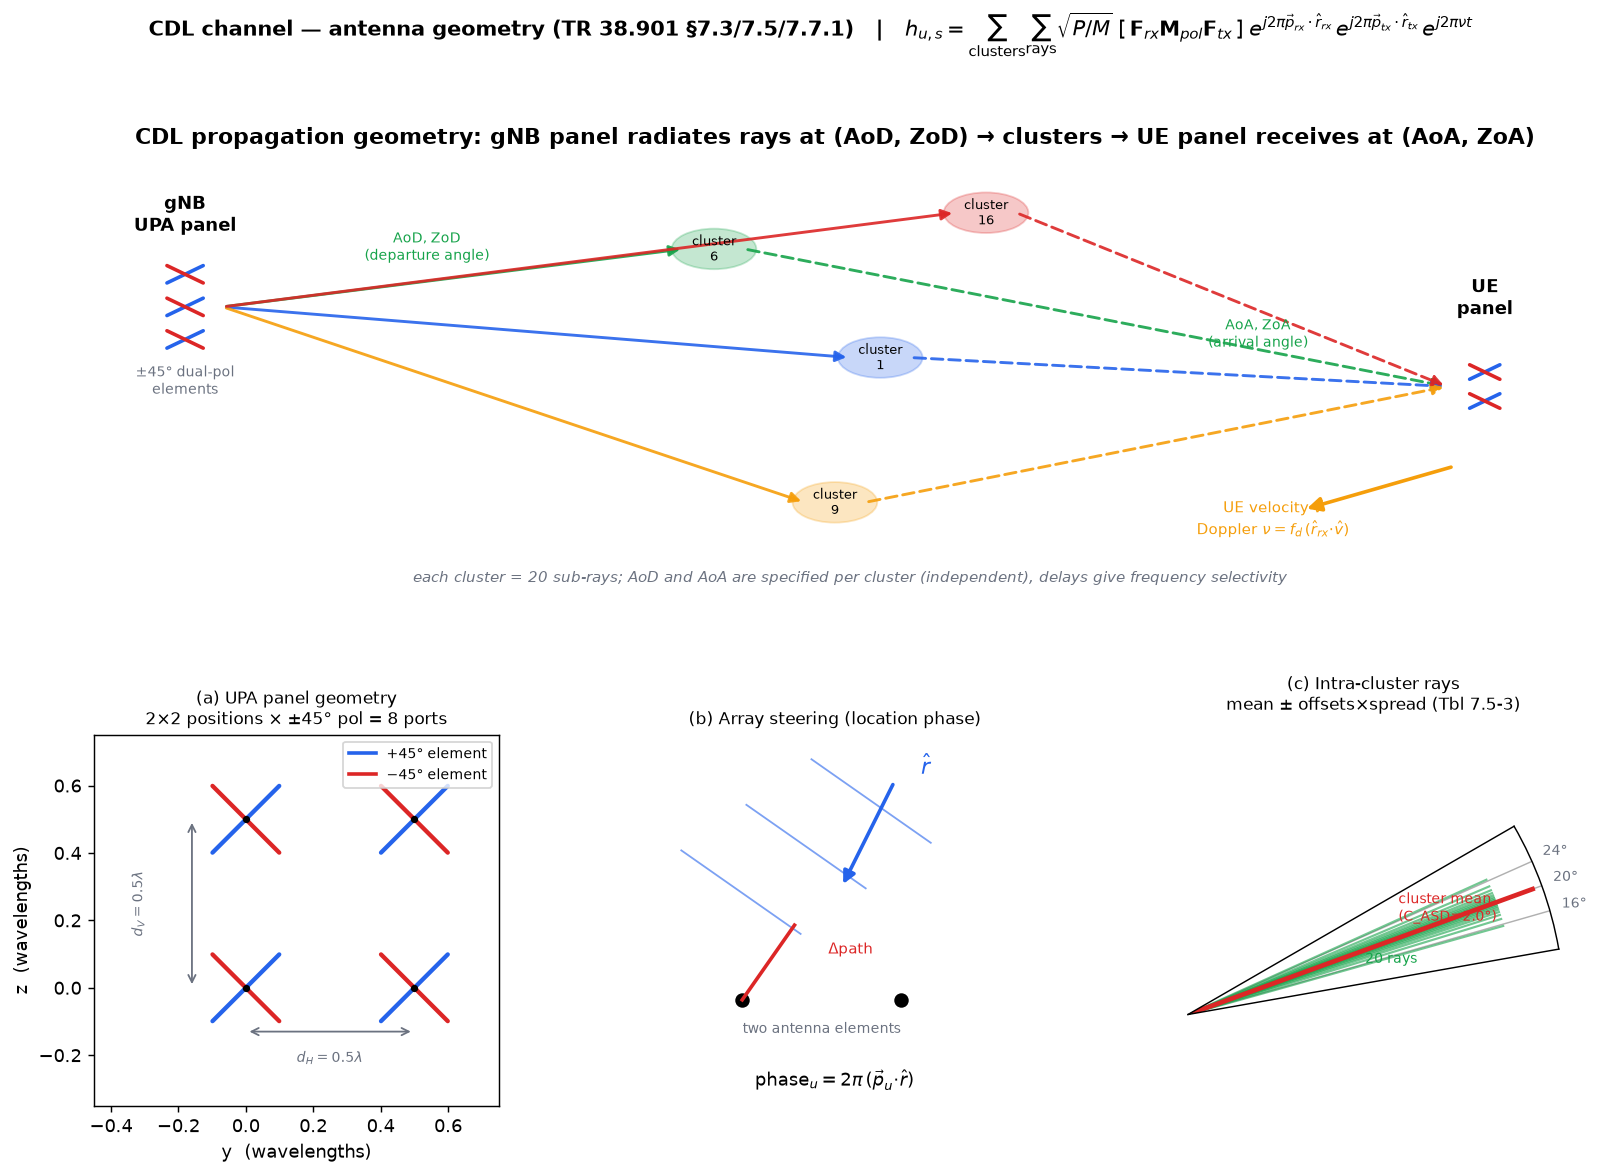
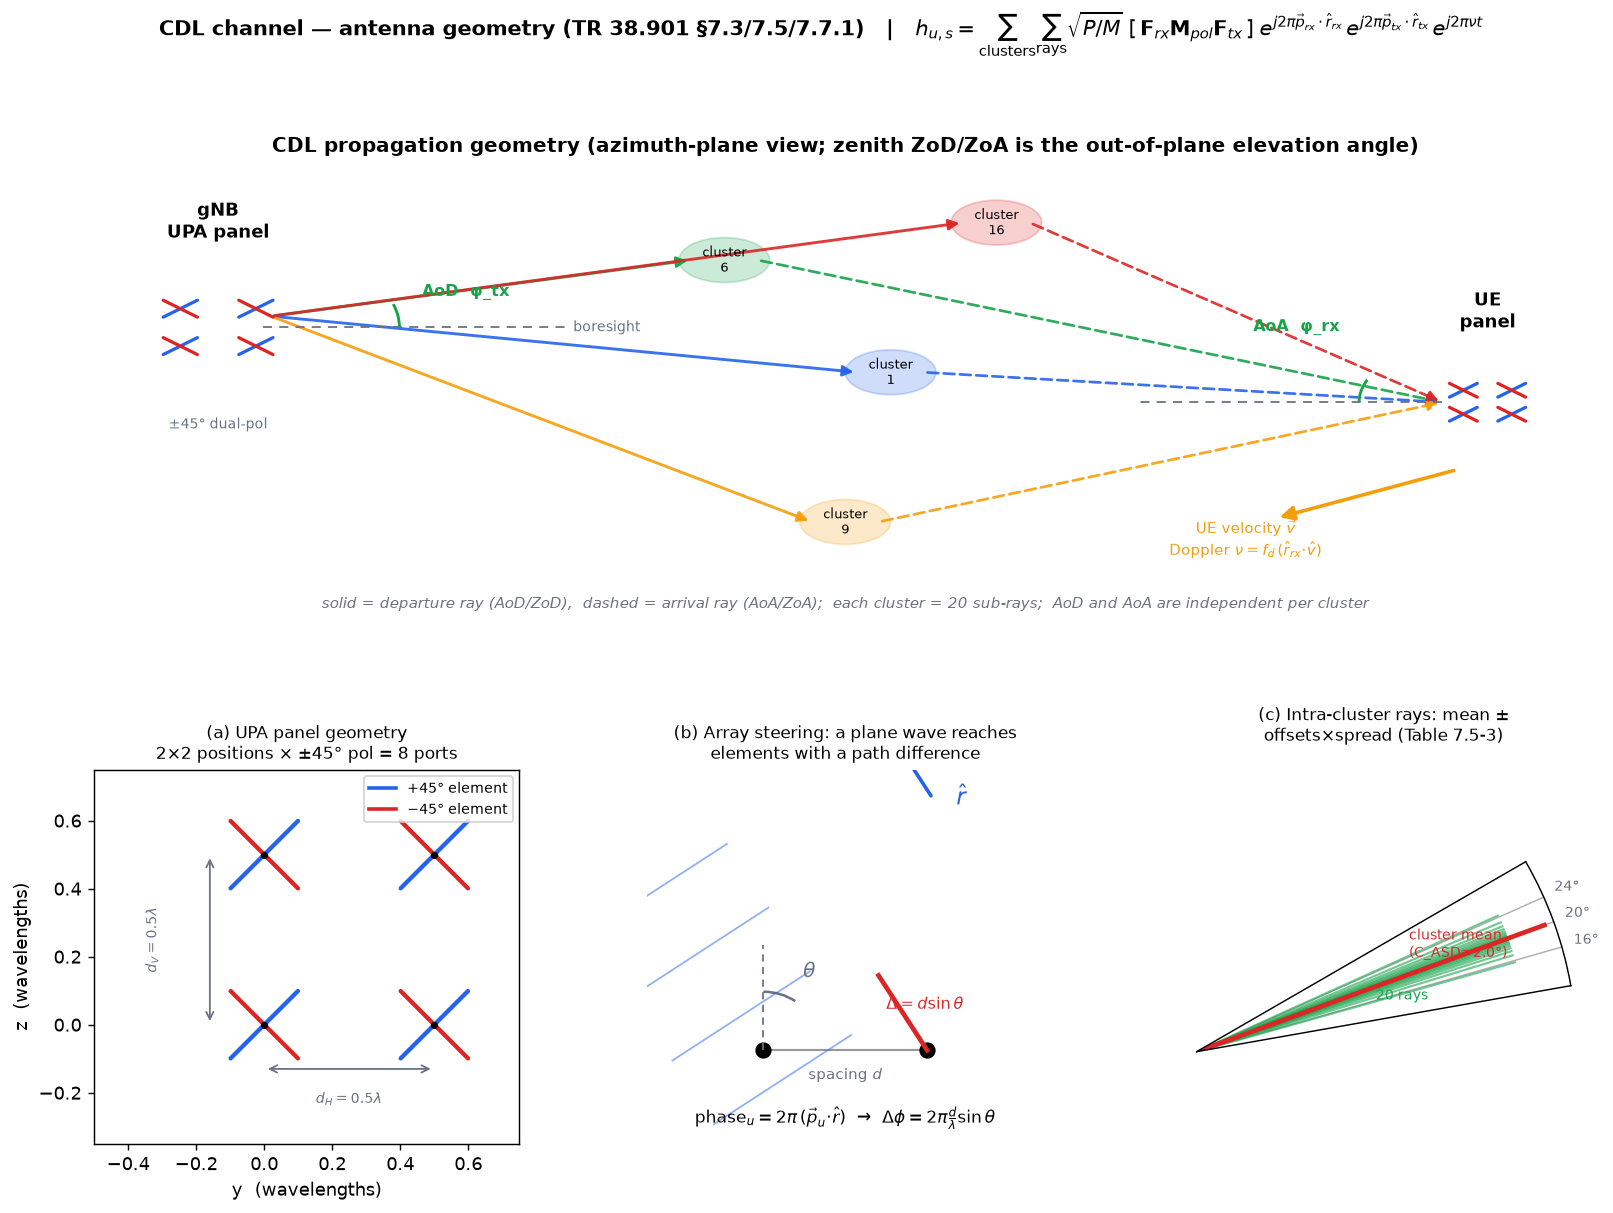
Refine CDL antenna-geometry figure
gNB drawn as a 2x2 dual-pol panel; boresight references + AoD/AoA angle arcs;
panel (b) redrawn as a clear phased-array steering diagram (theta, d*sin(theta),
phase formula); azimuth-plane note; fix sys.path import.

Claude-Session: https://claude.ai/code/session_01QWMA1G15JsNym7MEDMSeZY

diff --git a/examples/plot_cdl_geometry.py b/examples/plot_cdl_geometry.py
@@ -1,152 +1,161 @@
 """Illustrative figure explaining the CDL model's antenna geometry."""
+import os
+import sys
 import numpy as np
 import matplotlib
 matplotlib.use("Agg")
 import matplotlib.pyplot as plt
-from matplotlib.patches import FancyArrowPatch, Circle, Rectangle
+from matplotlib.patches import FancyArrowPatch, Circle, Arc
 from matplotlib.lines import Line2D
 
+sys.path.insert(0, os.path.dirname(os.path.dirname(os.path.abspath(__file__))))
 from nrdlsim.channel_models import build_panel, _CDL, _RAY_OFFSETS
 
 plt.rcParams.update({"font.size": 10})
-fig = plt.figure(figsize=(15, 9.5))
-gs = fig.add_gridspec(2, 3, height_ratios=[1.25, 1.0], hspace=0.28, wspace=0.24)
+fig = plt.figure(figsize=(15, 9.8))
+gs = fig.add_gridspec(2, 3, height_ratios=[1.28, 1.0], hspace=0.30, wspace=0.24)
 
 BLUE, GREEN, RED, ORANGE, GRAY = "#2563eb", "#16a34a", "#dc2626", "#f59e0b", "#6b7280"
+
+
+def mini_panel(ax, cx, cy, s=0.16, dp=0.42, label_bore=None):
+    """Draw a compact 2x2 dual-pol (±45°) panel centred at (cx, cy)."""
+    for gx in (-0.5, 0.5):
+        for gy in (-0.5, 0.5):
+            px, py = cx + gx*dp, cy + gy*dp
+            for ang, col in [(45, BLUE), (-45, RED)]:
+                dx, dy = s*np.cos(np.deg2rad(ang)), s*np.sin(np.deg2rad(ang))
+                ax.plot([px-dx, px+dx], [py-dy, py+dy], color=col, lw=1.8,
+                        solid_capstyle="round")
+
 
 # ======================================================================
 # TOP: end-to-end ray schematic  gNB UPA -> clusters -> UE
 # ======================================================================
 ax = fig.add_subplot(gs[0, :])
 ax.set_xlim(0, 10); ax.set_ylim(-3.2, 3.2); ax.axis("off")
-ax.set_title("CDL propagation geometry: gNB panel radiates rays at (AoD, ZoD) → "
-             "clusters → UE panel receives at (AoA, ZoA)", fontweight="bold")
+ax.set_title("CDL propagation geometry (azimuth-plane view; zenith ZoD/ZoA is the "
+             "out-of-plane elevation angle)", fontweight="bold", fontsize=11)
 
-# gNB UPA panel (left) — draw a small vertical stack of dual-pol elements
-gnb_x = 0.7
-for zz in (-0.45, 0.0, 0.45):
-    for pol, col in [(+1, BLUE), (-1, RED)]:
-        ax.plot([gnb_x-0.12*pol, gnb_x+0.12*pol], [1.1+zz-0.12, 1.1+zz+0.12],
-                color=col, lw=2, solid_capstyle="round")
-ax.text(gnb_x, 2.15, "gNB\nUPA panel", ha="center", fontweight="bold", color="k")
-ax.text(gnb_x, -0.1, "±45° dual-pol\nelements", ha="center", fontsize=8, color=GRAY)
+gnb = np.array([0.85, 1.0]); ue = np.array([9.25, 0.0])
+mini_panel(ax, *gnb, dp=0.5)
+ax.text(gnb[0], 2.2, "gNB\nUPA panel", ha="center", fontweight="bold")
+ax.text(gnb[0], -0.35, "±45° dual-pol", ha="center", fontsize=8, color=GRAY)
+mini_panel(ax, *ue, dp=0.32, s=0.13)
+ax.text(ue[0], 1.0, "UE\npanel", ha="center", fontweight="bold")
 
-# UE panel (right)
-ue_x = 9.3
-for zz in (-0.2, 0.2):
-    for pol, col in [(+1, BLUE), (-1, RED)]:
-        ax.plot([ue_x-0.1*pol, ue_x+0.1*pol], [zz-0.1, zz+0.1],
-                color=col, lw=2, solid_capstyle="round")
-ax.text(ue_x, 1.0, "UE\npanel", ha="center", fontweight="bold")
-# UE velocity arrow
-ax.add_patch(FancyArrowPatch((ue_x-0.2, -1.1), (ue_x-1.2, -1.7),
+# boresight reference lines (dashed)
+ax.plot([gnb[0]+0.3, gnb[0]+2.3], [gnb[1], gnb[1]], ls=(0,(5,4)), color=GRAY, lw=1)
+ax.text(gnb[0]+2.35, gnb[1], "boresight", fontsize=7.5, color=GRAY, va="center")
+ax.plot([ue[0]-0.3, ue[0]-2.3], [ue[1], ue[1]], ls=(0,(5,4)), color=GRAY, lw=1)
+
+# clusters -> connect gNB->blob->UE (solid = departure, dashed = arrival)
+clusters = np.array(_CDL["CDL-C"]["clusters"])
+pick = [5, 0, 8, 15]
+cols = [GREEN, BLUE, ORANGE, RED]
+blob = np.array([[4.2, 1.9], [5.3, 0.4], [5.0, -1.6], [6.0, 2.4]])
+for (ci, b, cc) in zip(pick, blob, cols):
+    ax.add_patch(Circle(b, 0.30, color=cc, alpha=0.22))
+    ax.text(b[0], b[1], f"cluster\n{ci+1}", ha="center", va="center", fontsize=7)
+    ax.add_patch(FancyArrowPatch(gnb+(0.35, 0.15), b-(0.22, 0.0),
+                 arrowstyle="-|>", mutation_scale=12, color=cc, lw=1.6, alpha=0.9))
+    ax.add_patch(FancyArrowPatch(b+(0.22, 0.0), ue-(0.30, 0.0),
+                 arrowstyle="-|>", mutation_scale=12, color=cc, lw=1.5, alpha=0.9,
+                 linestyle=(0, (4, 2))))
+
+# angle arc for AoD at gNB (to green cluster 6) and AoA at UE
+v_dep = blob[0] - gnb; a_dep = np.degrees(np.arctan2(v_dep[1], v_dep[0]))
+ax.add_patch(Arc(gnb, 2.4, 2.4, angle=0, theta1=0, theta2=a_dep, color=GREEN, lw=1.6))
+ax.text(gnb[0]+1.35, gnb[1]+0.42, "AoD  φ_tx", color=GREEN, fontsize=9, fontweight="bold")
+v_arr = blob[0] - ue; a_arr = np.degrees(np.arctan2(v_arr[1], v_arr[0]))
+# Arc draws CCW from theta1 to theta2: go from the arrival ray up to boresight(180)
+ax.add_patch(Arc(ue, 1.7, 1.7, angle=0, theta1=a_arr, theta2=180, color=GREEN, lw=1.6))
+ax.text(ue[0]-1.55, ue[1]+0.95, "AoA  φ_rx", color=GREEN, fontsize=9, fontweight="bold")
+
+# UE velocity arrow + Doppler
+ax.add_patch(FancyArrowPatch(ue+(-0.2, -0.9), ue+(-1.4, -1.55),
              arrowstyle="-|>", mutation_scale=16, color=ORANGE, lw=2))
-ax.text(ue_x-1.4, -2.05, r"UE velocity $\vec{v}$" "\n"
+ax.text(ue[0]-1.6, ue[1]-2.05, r"UE velocity $\vec{v}$" "\n"
         r"Doppler $\nu=f_d\,(\hat{r}_{rx}\!\cdot\!\hat{v})$",
         ha="center", fontsize=8.5, color=ORANGE)
-
-# a few CDL-C clusters -> place scatterer blobs, connect gNB->blob->UE
-clusters = np.array(_CDL["CDL-C"]["clusters"])
-pick = [5, 0, 8, 15]                       # a spread of clusters
-cols = [GREEN, BLUE, ORANGE, RED]
-blob_x = np.array([4.2, 5.3, 5.0, 6.0])
-blob_y = np.array([1.9, 0.4, -1.6, 2.4])
-for (ci, bx, by, cc) in zip(pick, blob_x, blob_y, cols):
-    aod, aoa = clusters[ci, 2], clusters[ci, 3]
-    p = clusters[ci, 1]
-    ax.add_patch(Circle((bx, by), 0.28, color=cc, alpha=0.25))
-    ax.text(bx, by, f"cluster\n{ci+1}", ha="center", va="center", fontsize=7)
-    # gNB -> cluster (departure)
-    ax.add_patch(FancyArrowPatch((gnb_x+0.25, 1.1), (bx-0.2, by),
-                 arrowstyle="-|>", mutation_scale=12, color=cc, lw=1.6, alpha=0.9))
-    # cluster -> UE (arrival)
-    ax.add_patch(FancyArrowPatch((bx+0.2, by), (ue_x-0.25, 0.0),
-                 arrowstyle="-|>", mutation_scale=12, color=cc, lw=1.6, alpha=0.9,
-                 linestyle=(0, (4, 2))))
-# annotate AoD / AoA on the first cluster path
-ax.text(2.3, 1.75, "AoD, ZoD\n(departure angle)", fontsize=8, color=GREEN, ha="center")
-ax.text(7.8, 0.55, "AoA, ZoA\n(arrival angle)", fontsize=8, color=GREEN, ha="center")
-ax.text(5.1, -2.7, "each cluster = 20 sub-rays; AoD and AoA are specified per "
-        "cluster (independent), delays give frequency selectivity",
+ax.text(5.0, -2.75, "solid = departure ray (AoD/ZoD),  dashed = arrival ray (AoA/ZoA);  "
+        "each cluster = 20 sub-rays;  AoD and AoA are independent per cluster",
         ha="center", fontsize=8.5, style="italic", color=GRAY)
 
 # ======================================================================
-# BOTTOM-LEFT: UPA panel element geometry (real build_panel positions)
+# (a) UPA panel element geometry (real build_panel positions)
 # ======================================================================
 axp = fig.add_subplot(gs[1, 0])
 pos, slant = build_panel(8, pol=2, layout=(2, 2), spacing_v=0.5, spacing_h=0.5)
-uniq = np.unique(pos, axis=0)
-for p in uniq:
+for p in np.unique(pos, axis=0):
     y, z = p[1], p[2]
-    for s, col in [(+45, BLUE), (-45, RED)]:
+    for s, col in [(45, BLUE), (-45, RED)]:
         dy, dz = 0.14*np.cos(np.deg2rad(s)), 0.14*np.sin(np.deg2rad(s))
-        axp.plot([y-dy, y+dy], [z-dz, z+dz], color=col, lw=2.4,
-                 solid_capstyle="round")
+        axp.plot([y-dy, y+dy], [z-dz, z+dz], color=col, lw=2.4, solid_capstyle="round")
     axp.plot(y, z, "o", color="k", ms=3)
 axp.annotate("", xy=(0.5, -0.13), xytext=(0.0, -0.13),
              arrowprops=dict(arrowstyle="<->", color=GRAY))
-axp.text(0.25, -0.22, r"$d_H=0.5\lambda$", ha="center", fontsize=8, color=GRAY)
+axp.text(0.25, -0.23, r"$d_H=0.5\lambda$", ha="center", fontsize=8, color=GRAY)
 axp.annotate("", xy=(-0.16, 0.5), xytext=(-0.16, 0.0),
              arrowprops=dict(arrowstyle="<->", color=GRAY))
-axp.text(-0.34, 0.25, r"$d_V=0.5\lambda$", va="center", rotation=90,
-         fontsize=8, color=GRAY)
-axp.set_xlim(-0.45, 0.75); axp.set_ylim(-0.35, 0.75); axp.set_aspect("equal")
+axp.text(-0.35, 0.25, r"$d_V=0.5\lambda$", va="center", rotation=90, fontsize=8, color=GRAY)
+axp.set_xlim(-0.5, 0.75); axp.set_ylim(-0.35, 0.75); axp.set_aspect("equal")
 axp.set_xlabel("y  (wavelengths)"); axp.set_ylabel("z  (wavelengths)")
-axp.set_title("(a) UPA panel geometry\n2×2 positions × ±45° pol = 8 ports",
-              fontsize=9.5)
+axp.set_title("(a) UPA panel geometry\n2×2 positions × ±45° pol = 8 ports", fontsize=9.5)
 axp.legend([Line2D([0],[0],color=BLUE,lw=2), Line2D([0],[0],color=RED,lw=2)],
            ["+45° element", "−45° element"], fontsize=7.5, loc="upper right")
 
 # ======================================================================
-# BOTTOM-MID: plane-wave steering / location phase
+# (b) plane-wave steering / location phase  (clean ULA phased-array diagram)
 # ======================================================================
 axa = fig.add_subplot(gs[1, 1])
-axa.set_xlim(-1.4, 1.6); axa.set_ylim(-1.3, 1.5); axa.set_aspect("equal")
-axa.axis("off")
-axa.set_title("(b) Array steering (location phase)", fontsize=9.5)
-# two elements along y
-e0, e1 = np.array([-0.6, -0.5]), np.array([0.6, -0.5])
-axa.plot(*e0, "o", color="k", ms=7); axa.plot(*e1, "o", color="k", ms=7)
-axa.text(0.0, -0.75, "two antenna elements", ha="center", fontsize=8, color=GRAY)
-# incoming plane wave from direction r_hat (azimuth phi from broadside)
-ang = np.deg2rad(35)
-d = np.array([np.sin(ang), np.cos(ang)])       # propagation direction
-for off in (-0.5, 0.1, 0.7):
-    base = np.array([off*np.cos(ang)-0.2, off*np.sin(ang)+0.6])
-    perp = np.array([np.cos(ang), -np.sin(ang)])
-    axa.plot([base[0]-0.55*perp[0], base[0]+0.55*perp[0]],
-             [base[1]-0.55*perp[1], base[1]+0.55*perp[1]], color=BLUE, lw=1, alpha=0.6)
-axa.add_patch(FancyArrowPatch((0.55, 1.15), (0.15, 0.35), arrowstyle="-|>",
-              mutation_scale=14, color=BLUE, lw=2))
-axa.text(0.75, 1.2, r"$\hat{r}$", color=BLUE, fontsize=12)
-# extra path length between elements
-axa.plot([e0[0], e0[0]+ (e1-e0)@d*d[0]], [e0[1], e0[1]+ (e1-e0)@d*d[1]],
-         color=RED, lw=2)
-axa.text(0.05, -0.15, "Δpath", color=RED, fontsize=8.5)
-axa.text(0.1, -1.15,
-         r"phase$_u = 2\pi\,(\vec{p}_u\!\cdot\!\hat{r})$", ha="center",
-         fontsize=10, color="k")
+axa.set_xlim(-1.7, 1.7); axa.set_ylim(-1.5, 1.7); axa.set_aspect("equal"); axa.axis("off")
+axa.set_title("(b) Array steering: a plane wave reaches\nelements with a path difference",
+              fontsize=9.5)
+th = np.deg2rad(33)                       # angle from broadside
+k = np.array([np.sin(th), -np.cos(th)])   # propagation direction (into array)
+perp = np.array([np.cos(th), np.sin(th)]) # along the wavefront
+e0, e1 = np.array([-0.7, -0.7]), np.array([0.7, -0.7])   # two elements, spacing d
+axa.plot([e0[0], e1[0]], [e0[1], e1[1]], color="k", lw=1.2, alpha=0.4)
+axa.plot(*e0, "o", color="k", ms=8); axa.plot(*e1, "o", color="k", ms=8)
+axa.text(0.0, -0.95, r"spacing $d$", ha="center", fontsize=8.5, color=GRAY)
+# incoming parallel wavefronts (perpendicular to k), passing through e0
+for off in (-0.3, 0.35, 1.0, 1.65):
+    c = e0 + off*(-k)
+    axa.plot([c[0]-0.7*perp[0], c[0]+0.7*perp[0]],
+             [c[1]-0.7*perp[1], c[1]+0.7*perp[1]], color=BLUE, lw=1, alpha=0.5)
+axa.add_patch(FancyArrowPatch((0.75, 1.45), (0.75-1.0*k[0], 1.45-1.0*k[1]),
+              arrowstyle="-|>", mutation_scale=15, color=BLUE, lw=2))
+axa.text(0.95, 1.4, r"$\hat{r}$", color=BLUE, fontsize=13)
+# extra path Δ = d·sinθ : from e1 back to the wavefront through e0
+foot = e1 - (np.dot(e1 - e0, -k))*(-k)
+axa.plot([e1[0], foot[0]], [e1[1], foot[1]], color=RED, lw=2.6)
+axa.text(0.35, -0.35, r"$\Delta=d\sin\theta$", color=RED, fontsize=9)
+# broadside (normal) + angle arc
+axa.plot([e0[0], e0[0]], [e0[1], e0[1]+0.9], ls=(0,(4,3)), color=GRAY, lw=1)
+axa.add_patch(Arc(e0, 1.0, 1.0, angle=0, theta1=90-33, theta2=90, color=GRAY, lw=1.4))
+axa.text(e0[0]+0.34, e0[1]+0.62, r"$\theta$", color=GRAY, fontsize=11)
+axa.text(0.0, -1.32, r"phase$_u = 2\pi\,(\vec{p}_u\!\cdot\!\hat{r})$  →  "
+         r"$\Delta\phi = 2\pi\frac{d}{\lambda}\sin\theta$", ha="center", fontsize=9.5)
 
 # ======================================================================
-# BOTTOM-RIGHT: intra-cluster ray fan (angle spread)
+# (c) intra-cluster ray fan (angle spread)
 # ======================================================================
 axs = fig.add_subplot(gs[1, 2], projection="polar")
-axs.set_title("(c) Intra-cluster rays\nmean ± offsets×spread (Tbl 7.5-3)",
-              fontsize=9.5, pad=14)
-c_asd = _CDL["CDL-C"]["spread"][0]             # C_ASD for CDL-C
-mean = 20.0                                    # illustrative cluster mean AoD
-rays = mean + c_asd * _RAY_OFFSETS
-for r in rays:
-    axs.plot([np.deg2rad(r), np.deg2rad(r)], [0, 1], color=GREEN, lw=1.2, alpha=0.6)
-axs.plot([np.deg2rad(mean), np.deg2rad(mean)], [0, 1.12], color=RED, lw=2.6)
+axs.set_title("(c) Intra-cluster rays: mean ±\noffsets×spread (Table 7.5-3)", fontsize=9.5, pad=16)
+c_asd = _CDL["CDL-C"]["spread"][0]
+mean = 20.0
+for r in mean + c_asd*_RAY_OFFSETS:
+    axs.plot([np.deg2rad(r)]*2, [0, 1], color=GREEN, lw=1.2, alpha=0.6)
+axs.plot([np.deg2rad(mean)]*2, [0, 1.12], color=RED, lw=2.6)
 axs.set_thetamin(mean-3*c_asd-4); axs.set_thetamax(mean+3*c_asd+4)
 axs.set_rticks([]); axs.set_rmax(1.15)
 axs.set_thetagrids([mean-2*c_asd, mean, mean+2*c_asd])
 axs.tick_params(axis="x", labelsize=8, colors=GRAY)
 axs.text(np.deg2rad(mean+3.4*c_asd), 0.72, f"cluster mean\n(C_ASD={c_asd}°)",
          ha="left", va="center", fontsize=8, color=RED)
-axs.text(np.deg2rad(mean-3.2*c_asd), 0.72, "20 rays",
-         ha="right", va="center", fontsize=8, color=GREEN)
+axs.text(np.deg2rad(mean-3.2*c_asd), 0.72, "20 rays", ha="right", va="center",
+         fontsize=8, color=GREEN)
 
 fig.suptitle(
     r"CDL channel — antenna geometry (TR 38.901 §7.3/7.5/7.7.1)   |   "
@@ -154,9 +163,8 @@ fig.suptitle(
     r"[\,\mathbf{F}_{rx}\mathbf{M}_{pol}\mathbf{F}_{tx}\,]\;"
     r"e^{j2\pi \vec{p}_{rx}\cdot\hat{r}_{rx}}\,"
     r"e^{j2\pi \vec{p}_{tx}\cdot\hat{r}_{tx}}\,e^{j2\pi\nu t}$",
-    fontsize=11.5, fontweight="bold", y=0.995)
+    fontsize=11.5, fontweight="bold", y=0.998)
 
-import os
 os.makedirs("results", exist_ok=True)
 fig.savefig("results/cdl_antenna_geometry.png", dpi=130, bbox_inches="tight")
 print("saved results/cdl_antenna_geometry.png")
